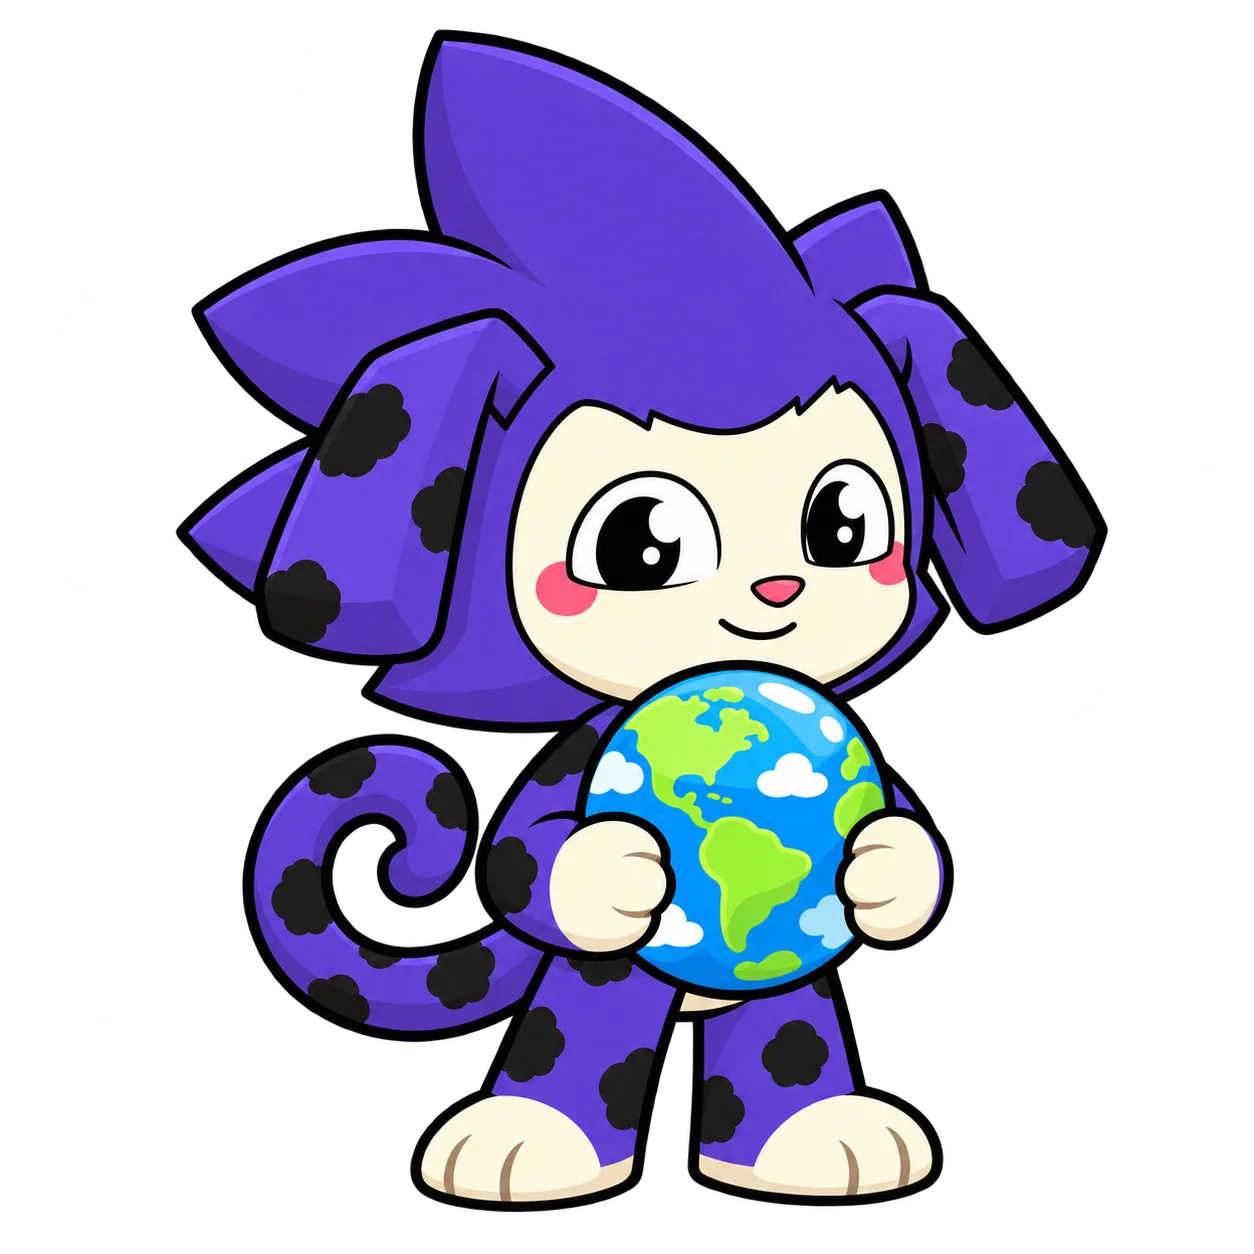
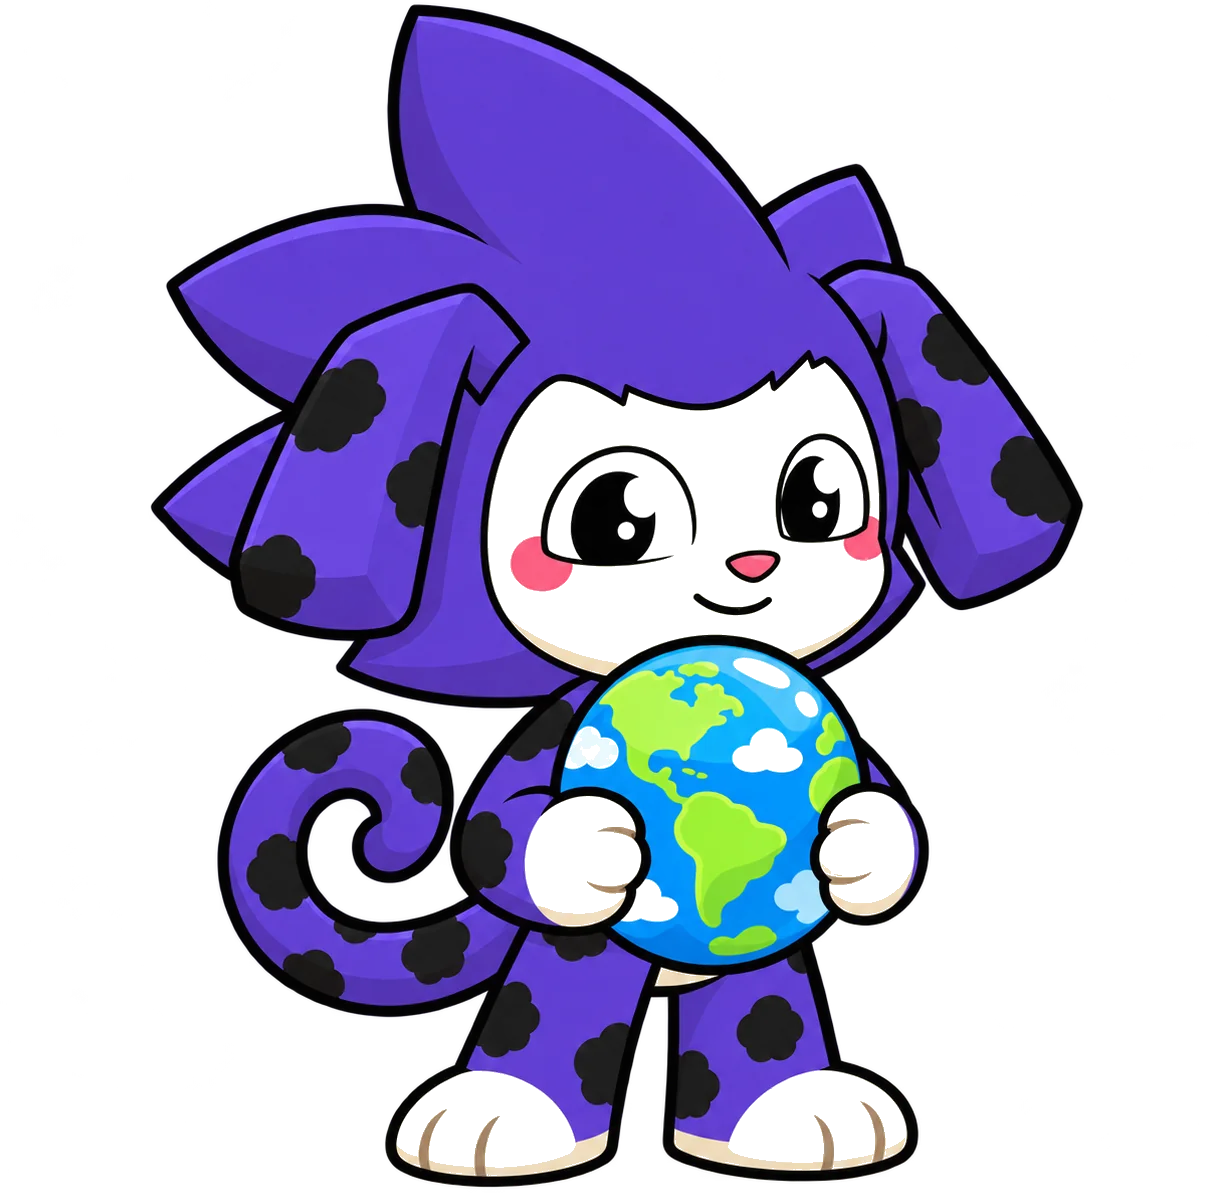
fix: strip white frame from login/profile art (transparent, cropped)

Changed region(s): [[0.1224, 0.0, 0.9181, 1.0]]

diff --git a/scripts/strip_frame.py b/scripts/strip_frame.py
@@ -1,0 +1,27 @@
+from PIL import Image
+
+def process(name, out):
+    im = Image.open(f'/tmp/choglock/{name}').convert('RGBA')
+    w, h = im.size
+    px = im.load()
+    def is_whiteish(p):
+        r, g, b, a = p
+        return a > 200 and r > 235 and g > 228 and b > 200
+    # 1) bikin semua pixel white/cream jadi transparan (buang kotak dalam art)
+    data = []
+    for y in range(h):
+        for x in range(w):
+            p = px[x, y]
+            if is_whiteish(p):
+                data.append((x, y))
+    for x, y in data:
+        px[x, y] = (0, 0, 0, 0)
+    # 2) crop bounding box konten opaque
+    bbox = im.getbbox()
+    if bbox:
+        im = im.crop(bbox)
+    im.save(f'/root/whitelist/public/assets/{out}.webp', 'WEBP', quality=85, method=6)
+    print(out, 'saved', im.size, '- whiteish removed:', len(data))
+
+process('LOGIN PAGE.webp', 'login-art')
+process('profile page.webp', 'profile-art')
